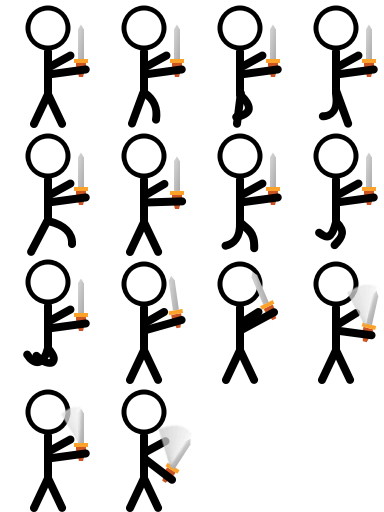
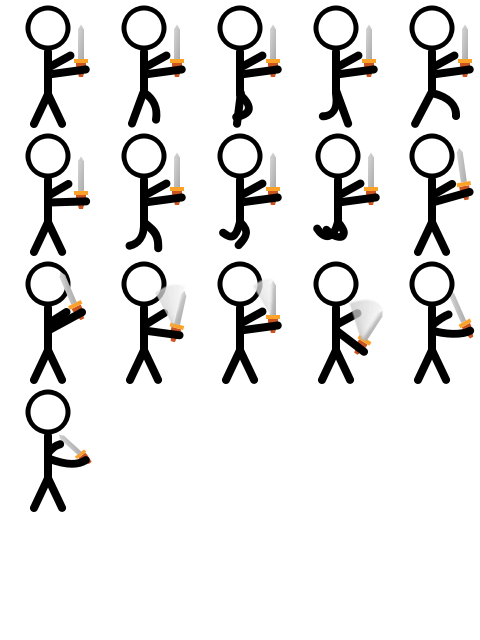
block animation

Changed region(s): [[0.0312, 0.0, 1.0, 1.0]]

diff --git a/Lucky Fighters/Lucky_Fighters/Player.cs b/Lucky Fighters/Lucky_Fighters/Player.cs
@@ -254,6 +254,7 @@ namespace Lucky_Fighters
             Console.WriteLine("Blocked");
             blockingTime = BlockDuration;
             blockingCooldown = BlockCooldown;
+            SetAndPlayAnimation("Blocking");
         }
 
         /// <summary>
@@ -340,9 +341,13 @@ namespace Lucky_Fighters
 
             oldGamePad = gamePad;
 
-            // the following animations are overriden by attacking
+            // the following animations play until finished (all the time)
             if (currentAnim == "Attacking" && SpriteAnimations[currentAnim].IsPlaying)
                 return;
+
+            if (currentAnim == "Blocking" && IsBlocking)
+                return;
+
 
             // the following animations are overriden by jumping
             if (currentAnim == "Jumping" && !IsOnGround)
@@ -360,10 +365,10 @@ namespace Lucky_Fighters
                     SetAndPlayAnimation("Sprinting");
             }
             else
-			      {
+			{
                 if (currentAnim != "Running")
                     SetAndPlayAnimation("Running");
-			      }
+			}
         }
 
         public override void Update(GameTime gameTime)

diff --git a/Lucky Fighters/Lucky_Fighters/SwordFighter.cs b/Lucky Fighters/Lucky_Fighters/SwordFighter.cs
@@ -21,7 +21,7 @@ namespace Lucky_Fighters
 
         private const float SpecialAttackCooldown = 2f;
 
-		public SwordFighter(Map map, Vector2 start, PlayerIndex playerIndex, int teamId) : base(map, start, 1f, 96, 128, 4, "swordfightersheet", playerIndex, teamId)
+		public SwordFighter(Map map, Vector2 start, PlayerIndex playerIndex, int teamId) : base(map, start, 1f, 96, 128, 5, "swordfightersheet", playerIndex, teamId)
 		{
             attacking = false;
             attackRectangle = new Rectangle();
@@ -30,6 +30,7 @@ namespace Lucky_Fighters
             SpriteAnimations.Add("Sprinting", new Animation(new int[] { 1, 4, 3, 2 }, 18, true));
             SpriteAnimations.Add("Jumping", new Animation(new int[] { 6, 7, 8 }, 10, false));
             SpriteAnimations.Add("Attacking", new Animation(new int[] { 9, 10, 12, 11, 13, 13 }, 30, false));
+            SpriteAnimations.Add("Blocking", new Animation(new int[] { 14, 15 }, 10, false));
         }
 
         public override void Attack()
